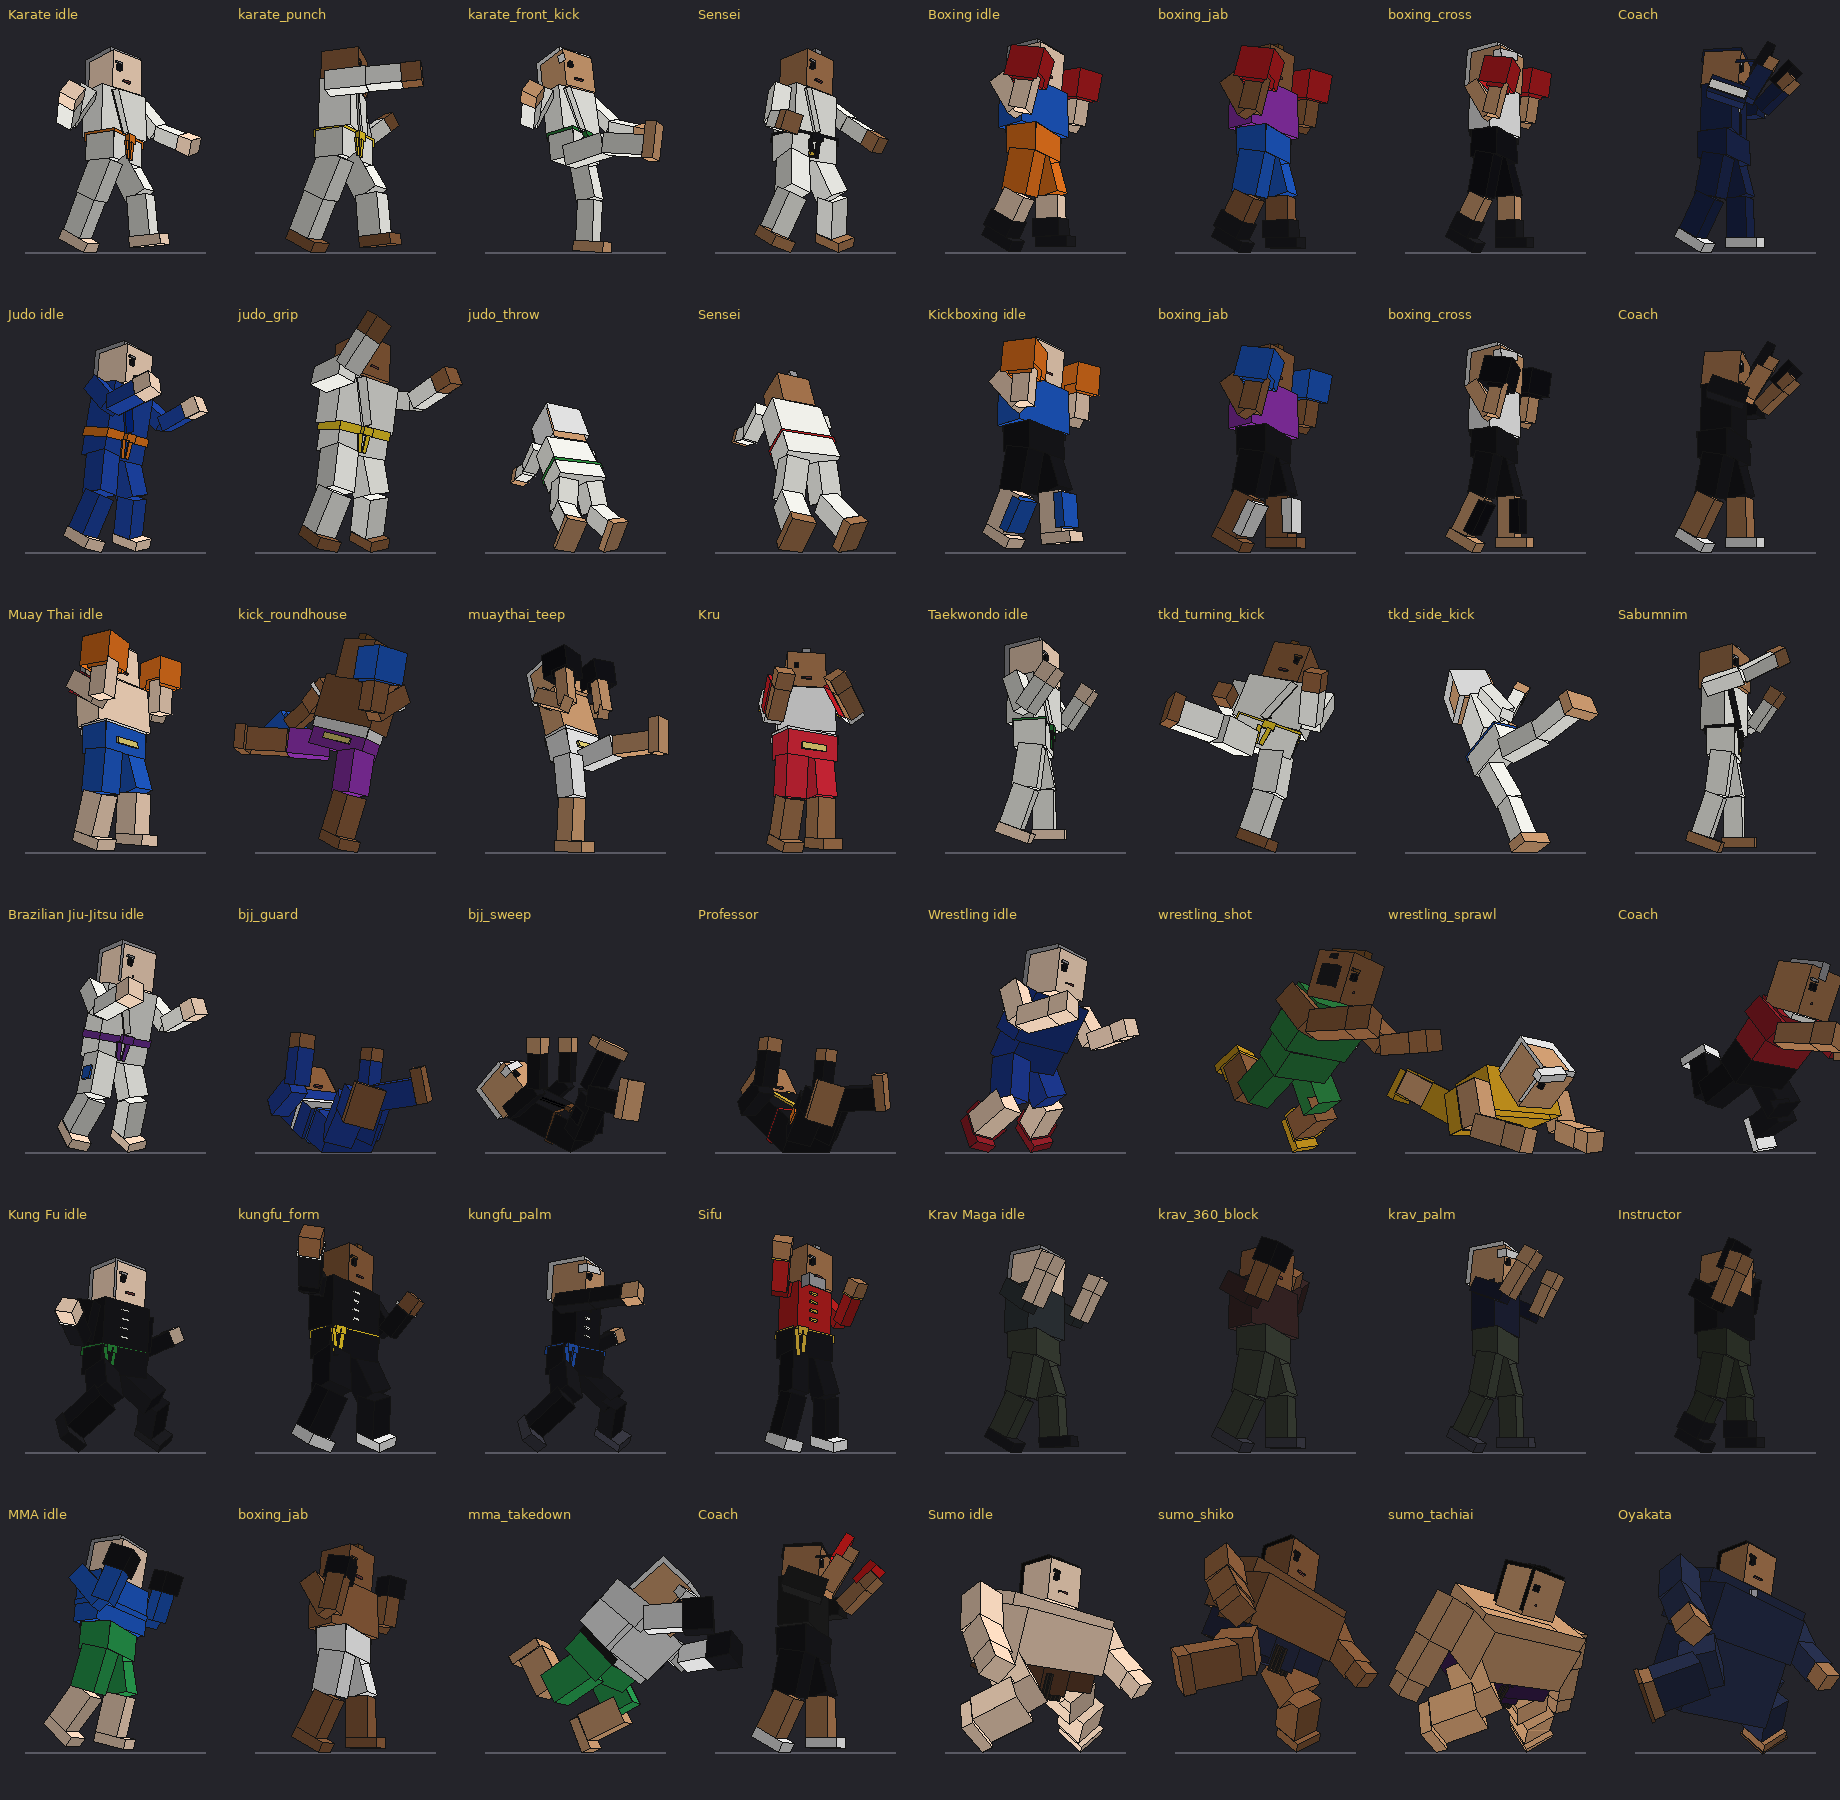
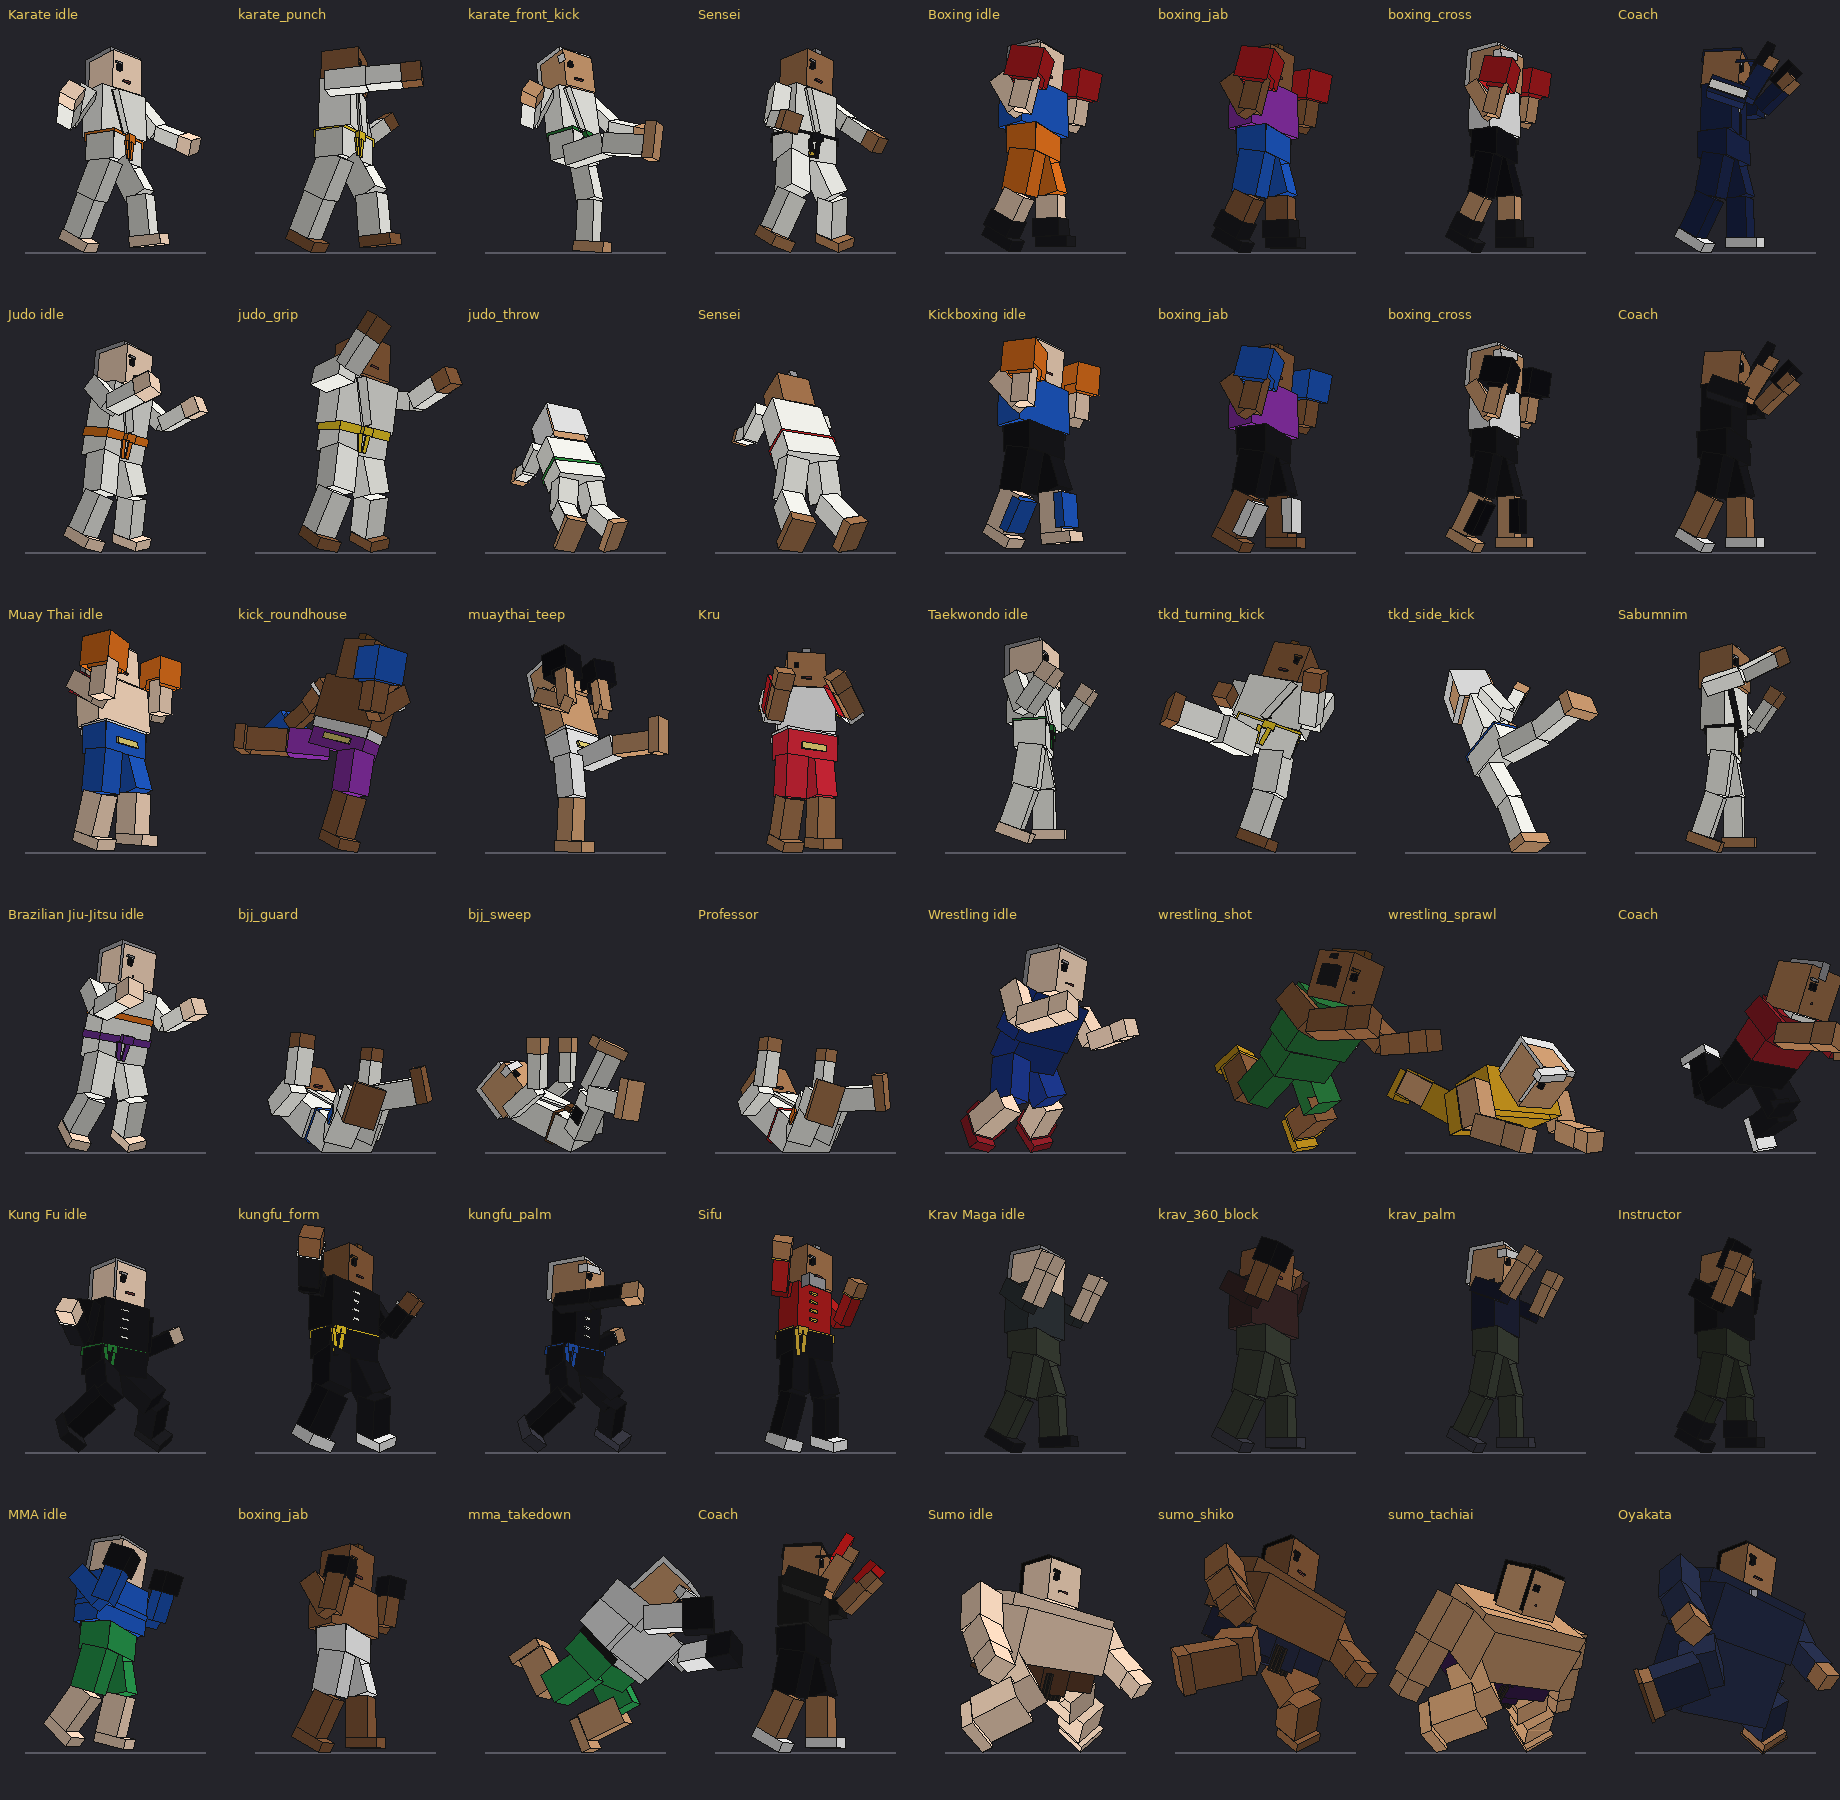
Judo and BJJ: white uniforms for everyone, belt shows the grade

diff --git a/docs/MONETIZATION.md b/docs/MONETIZATION.md
@@ -24,7 +24,7 @@ from `MarketplaceService:GetProductInfo`; the `robux` field is only a fallback f
 | premium_decor | Premium Academy Decorations | 199 | statues at reception, +3 satisfaction |
 | bundle_starter | Starter Bundle | 99 | once: 25,000 cash, 300 gems, a Rare trainer |
 | bundle_striker | Striker Cosmetic Bundle | 199 | MMA fight gear outfit |
-| bundle_grappler | Grappler Cosmetic Bundle | 199 | black BJJ gi outfit |
+| bundle_grappler | Grappler Cosmetic Bundle | 199 | BJJ gi with black belt |
 | bundle_traditional | Traditional Masters Bundle | 249 | kung fu suit, crane pose, sakura garden (spring collection, Mar–May) |
 
 ## Developer Products (Monetization → Developer Products)
